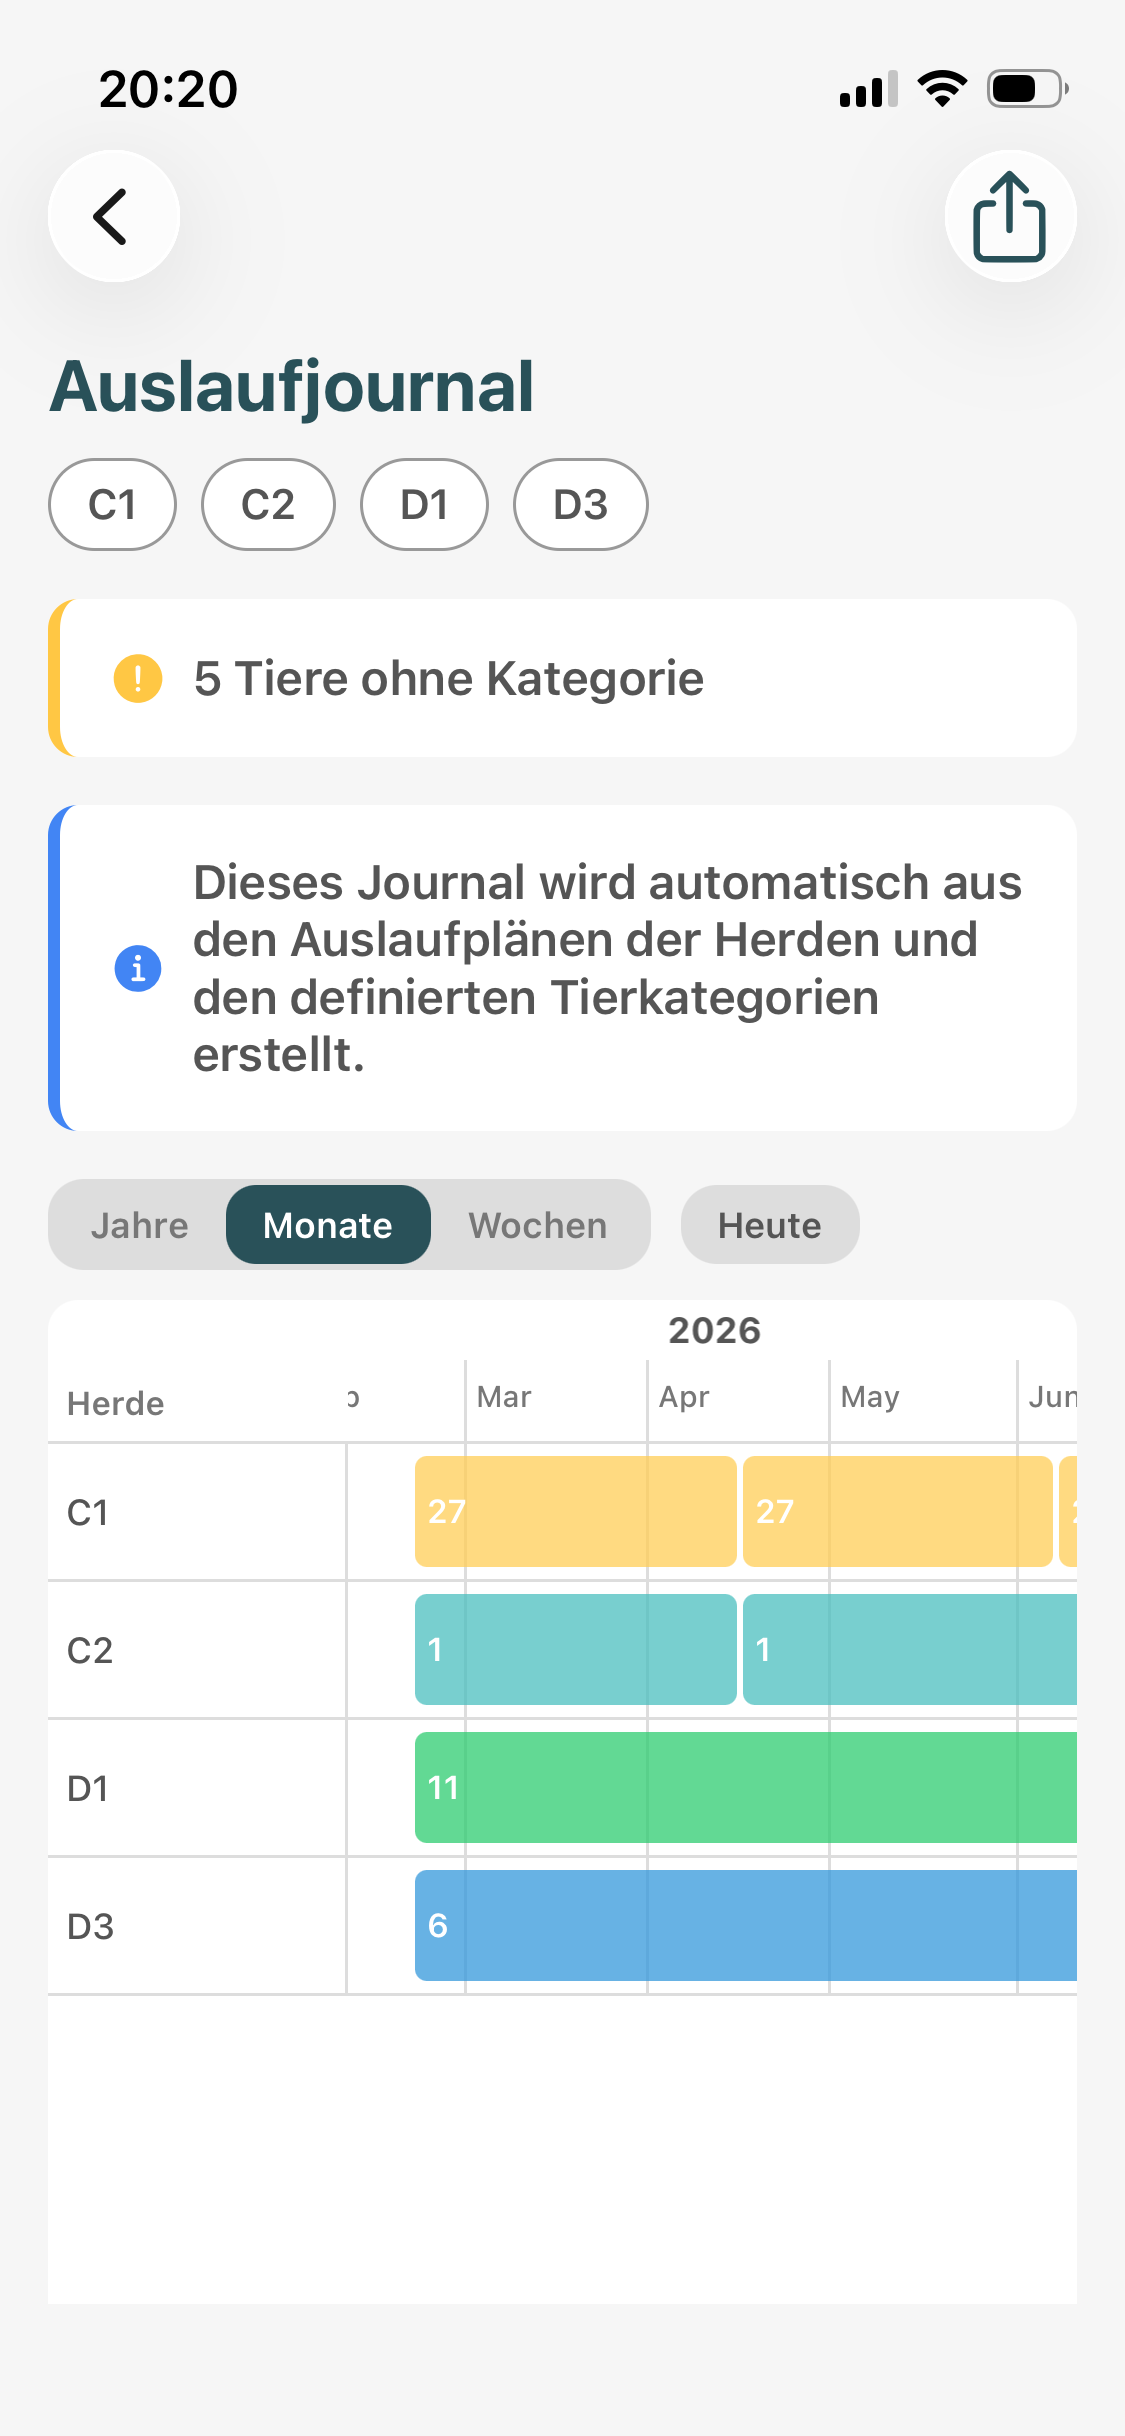
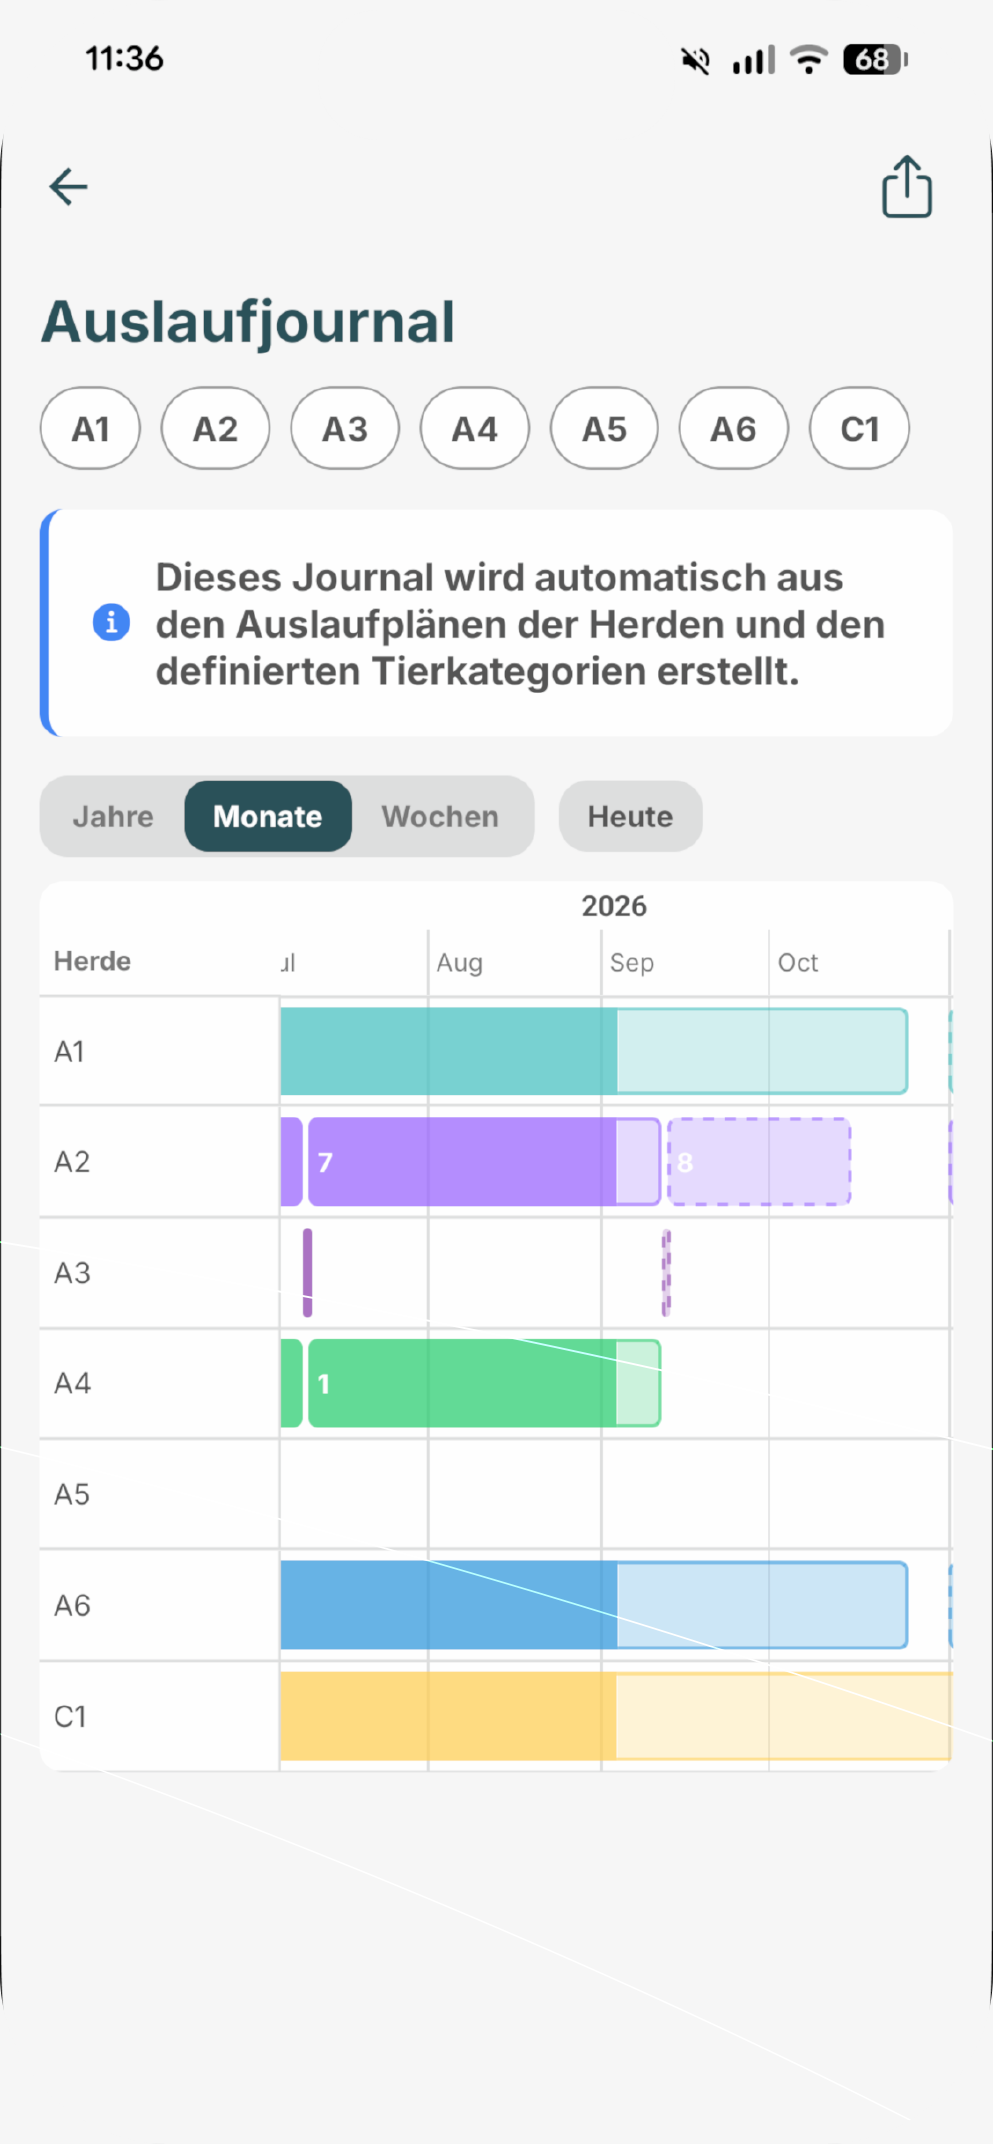
replace screenshots, change content and nav order

diff --git a/src/i18n/translations.ts b/src/i18n/translations.ts
@@ -91,7 +91,7 @@ export interface Translations {
 
 const translations: Record<Locale, Translations> = {
   de: {
-    nav: { openApp: 'Web-App öffnen', features: 'Funktionen', webapp: 'Web-App', membership: 'Mitgliedschaft', about: 'Über uns' },
+    nav: { openApp: 'Web-App öffnen', features: 'Funktionen', webapp: 'Web-App', membership: 'Mitgliedschaft', about: 'Der Verein' },
     hero: {
       headline: 'Hofverwaltung,\nvon Bauern,\nfür Bauern.',
       splashTagline: 'Von Bauern. Für Bauern.',
@@ -131,7 +131,7 @@ const translations: Record<Locale, Translations> = {
     },
     animals: {
       title: 'Tierhaltung',
-      imageAlt: 'Tierbestand in der Coltivio-App, Liste der Tiere mit Herde und Wartezeiten.',
+      imageAlt: 'Auslaufjournal in der Coltivio-App, Auslauf- und Weidezeiten pro Herde im Kalender.',
       import: { title: 'Tierbestand', desc: 'Dein ganzer Tierbestand im Überblick. Erstelle Herden mit Auslauf- und Weidezeiten. Die Tiere übernimmst du direkt aus dem Tierlisten-Export der TVD.' },
       treatments: { title: 'Behandlungsjournal', desc: 'Vollständiges Medikamentenprotokoll pro Tier: Präparat, Dosis, Grund und Tierarztpraxis. Milch- und Fleischwartezeiten rechnet die App automatisch aus. Tiere mit laufender Absetzfrist sind in der Tierliste markiert und filterbar.' },
       turnout: { title: 'Auslaufjournal', desc: 'Das Auslaufjournal entsteht automatisch aus deinen Herden. Einmal eingerichtet, dann läuft es.' },
@@ -185,7 +185,7 @@ const translations: Record<Locale, Translations> = {
   },
 
   fr: {
-    nav: { openApp: 'Ouvrir la Web App', features: 'Fonctionnalités', webapp: 'Web App', membership: 'Adhésion', about: 'À propos' },
+    nav: { openApp: 'Ouvrir la Web App', features: 'Fonctionnalités', webapp: 'Web App', membership: 'Adhésion', about: "L'association" },
     hero: {
       headline: 'Gestion agricole,\npar des paysans,\npour des paysans.',
       splashTagline: 'Par des paysans. Pour des paysans.',
@@ -225,7 +225,7 @@ const translations: Record<Locale, Translations> = {
     },
     animals: {
       title: 'Élevage',
-      imageAlt: "Cheptel dans Coltivio, liste des animaux avec troupeau et délais d'attente.",
+      imageAlt: 'Journal de pâturage dans Coltivio, sorties et temps de pâturage par troupeau dans le calendrier.',
       import: { title: 'Cheptel', desc: "Tout votre cheptel en un coup d'œil. Créez des troupeaux avec des sorties et des temps de pâturage définis. Importez les animaux via l'export des listes animaux depuis TVD." },
       treatments: { title: 'Journal des traitements', desc: "Journal complet des médicaments par animal : produit, dose, motif et vétérinaire. Les délais d'attente (Absetzfristen) lait et viande sont calculés automatiquement avec alertes avant expiration." },
       turnout: { title: 'Journal de pâturage', desc: 'Journal de pâturage généré automatiquement en fonction des troupeaux configurés. Configurez-le une fois et oubliez-le.' },
@@ -279,7 +279,7 @@ const translations: Record<Locale, Translations> = {
   },
 
   it: {
-    nav: { openApp: 'Apri la Web App', features: 'Funzionalità', webapp: 'Web App', membership: 'Iscrizione', about: 'Chi siamo' },
+    nav: { openApp: 'Apri la Web App', features: 'Funzionalità', webapp: 'Web App', membership: 'Iscrizione', about: "L'associazione" },
     hero: {
       headline: 'Gestione agricola,\nda agricoltori,\nper agricoltori.',
       splashTagline: 'Da agricoltori. Per agricoltori.',
@@ -319,7 +319,7 @@ const translations: Record<Locale, Translations> = {
     },
     animals: {
       title: 'Zootecnia',
-      imageAlt: 'Patrimonio zootecnico in Coltivio, elenco degli animali con mandria e tempi di attesa.',
+      imageAlt: 'Giornale di pascolo in Coltivio, uscite e tempi di pascolo per mandria nel calendario.',
       import: { title: 'Patrimonio zootecnico', desc: "Tutto il tuo bestiame a colpo d'occhio. Crea mandrie con uscite e tempi di pascolo definiti. Importa gli animali tramite l'esportazione delle liste animali da TVD." },
       treatments: { title: 'Giornale trattamenti', desc: 'Registro completo dei farmaci per animale: prodotto, dose, motivo e veterinario. I periodi di attesa (Absetzfristen) per latte e carne vengono calcolati automaticamente con avvisi prima della scadenza.' },
       turnout: { title: 'Giornale di pascolo', desc: "Giornale di pascolo generato automaticamente in base alle mandrie configurate. Configuralo una volta e lascia fare all'app." },
@@ -373,7 +373,7 @@ const translations: Record<Locale, Translations> = {
   },
 
   en: {
-    nav: { openApp: 'Open Web App', features: 'Features', webapp: 'Web App', membership: 'Membership', about: 'About' },
+    nav: { openApp: 'Open Web App', features: 'Features', webapp: 'Web App', membership: 'Membership', about: 'The Association' },
     hero: {
       headline: 'Farm Management,\nBy Farmers,\nfor farmers.',
       splashTagline: 'By farmers. For farmers.',
@@ -413,7 +413,7 @@ const translations: Record<Locale, Translations> = {
     },
     animals: {
       title: 'Animal Husbandry',
-      imageAlt: 'Livestock in Coltivio, list of animals with herd and withdrawal periods.',
+      imageAlt: 'Turnout journal in Coltivio, turnout and grazing periods per herd in the calendar.',
       import: { title: 'Livestock Overview', desc: 'Your entire livestock at a glance. Create herds with defined turnout and grazing times. Import animals from a TVD herd list export.' },
       treatments: { title: 'Treatments Journal', desc: 'A complete medication log per animal: drug, dose, reason, and vet. Milk and meat withdrawal periods (Absetzfristen) are calculated automatically, and animals still inside a withdrawal period are flagged and filterable in the animal list.' },
       turnout: { title: 'Turnout Journal', desc: 'Automatically generated turnout journal based on your configured herds. Set it up once and let it run.' },

diff --git a/src/components/MobileNav.tsx b/src/components/MobileNav.tsx
@@ -105,9 +105,9 @@ export function MobileNav({ lang, appUrl, labels, onDark = false }: Props) {
         {/* Nav anchor links */}
         <nav className="flex flex-col p-4 gap-1">
           {([
+            { href: '#membership', label: labels.membership },
             { href: '#features', label: labels.features },
             { href: '#webapp', label: labels.webapp },
-            { href: '#membership', label: labels.membership },
             { href: '#about', label: labels.about },
           ] as const).map(({ href, label }) => (
             <a
